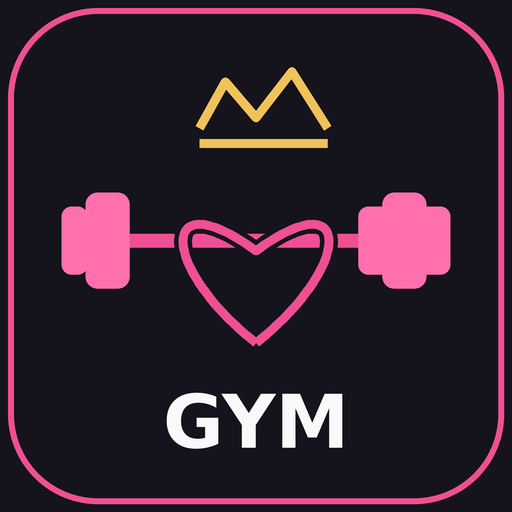
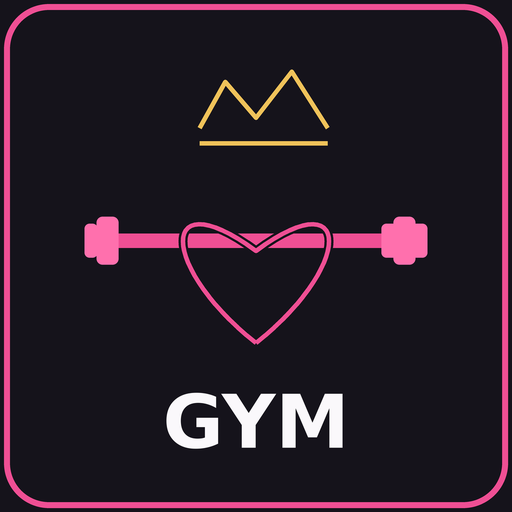
Atualização 5.1

diff --git a/index.html b/index.html
@@ -1,8 +1,13 @@
 <!doctype html><html lang="pt-BR"><head>
 <meta charset="utf-8"><meta name="viewport" content="width=device-width,initial-scale=1,viewport-fit=cover">
-<meta name="theme-color" content="#15131b"><meta name="apple-mobile-web-app-capable" content="yes"><meta name="apple-mobile-web-app-status-bar-style" content="black-translucent"><meta name="apple-mobile-web-app-title" content="GYM"><meta name="description" content="Treino adaptativo, recuperação muscular, cardio e relatórios.">
-<link rel="manifest" href="./manifest.webmanifest?v=5.0"><link rel="icon" type="image/png" href="./assets/favicon.png?v=5.0"><link rel="apple-touch-icon" href="./assets/apple-touch-icon.png?v=5.0">
-<link rel="stylesheet" href="styles.css?v=5.0"><title>GYM</title></head><body>
+<meta name="theme-color" content="#15131b"><meta name="mobile-web-app-capable" content="yes"><meta name="application-name" content="GYM"><meta name="apple-mobile-web-app-capable" content="yes"><meta name="apple-mobile-web-app-status-bar-style" content="black-translucent"><meta name="apple-mobile-web-app-title" content="GYM"><meta name="description" content="Treino adaptativo, recuperação muscular, cardio e relatórios.">
+<link rel="manifest" href="./manifest.webmanifest?v=5.1">
+<link rel="icon" type="image/x-icon" href="./assets/favicon.ico?v=5.1">
+<link rel="icon" type="image/png" sizes="192x192" href="./assets/icon-192.png?v=5.1">
+<link rel="icon" type="image/png" sizes="512x512" href="./assets/icon-512.png?v=5.1">
+<link rel="shortcut icon" href="./assets/icon-192.png?v=5.1">
+<link rel="apple-touch-icon" sizes="180x180" href="./assets/apple-touch-icon.png?v=5.1">
+<link rel="stylesheet" href="styles.css?v=5.1"><title>GYM</title></head><body>
 <svg class="svg-sprite" aria-hidden="true"><defs>
 <symbol id="i-home" viewBox="0 0 24 24"><path d="M3 11 12 3l9 8v9a1 1 0 0 1-1 1h-5v-7H9v7H4a1 1 0 0 1-1-1z"/></symbol>
 <symbol id="i-workout" viewBox="0 0 24 24"><path d="M6 8v8M3 10v4M18 8v8M21 10v4M6 12h12"/></symbol>
@@ -17,4 +22,4 @@
 <symbol id="i-plus" viewBox="0 0 24 24"><path d="M12 5v14M5 12h14"/></symbol><symbol id="i-logout" viewBox="0 0 24 24"><path d="M10 17l5-5-5-5M15 12H3M15 4h5a1 1 0 0 1 1 1v14a1 1 0 0 1-1 1h-5"/></symbol>
 </defs></svg>
 <div id="toast" class="toast"></div><div id="app"></div>
-<script src="https://cdn.jsdelivr.net/npm/@supabase/supabase-js@2"></script><script src="config.js"></script><script src="app.js?v=5.0"></script></body></html>
+<script src="https://cdn.jsdelivr.net/npm/@supabase/supabase-js@2"></script><script src="config.js"></script><script src="app.js?v=5.1"></script></body></html>

diff --git a/index.ts b/index.ts
@@ -1,4 +1,4 @@
 import "jsr:@supabase/functions-js/edge-runtime.d.ts";
 import OpenAI from "npm:openai";
 const cors={"Access-Control-Allow-Origin":"*","Access-Control-Allow-Headers":"authorization, x-client-info, apikey, content-type"};
-Deno.serve(async(req)=>{if(req.method==="OPTIONS")return new Response("ok",{headers:cors});try{const key=Deno.env.get("OPENAI_API_KEY");if(!key)throw new Error("OPENAI_API_KEY não configurada");const client=new OpenAI({apiKey:key});const body=await req.json();const response=await client.responses.create({model:"gpt-5-mini",input:[{role:"system",content:"Você é o Coach do EmyFit. Use apenas o exercício, perfil, histórico e regras fornecidos. Não diagnostique. Não invente substituições fora da biblioteca. Em dor >=5/10, sintomas cardiopulmonares, inchaço ou travamento, mande interromper e buscar avaliação. Responda em português, de forma curta e explique a razão."},{role:"user",content:JSON.stringify(body)}]});return new Response(JSON.stringify({answer:response.output_text}),{headers:{...cors,"Content-Type":"application/json"}})}catch(e){return new Response(JSON.stringify({error:e.message}),{status:400,headers:{...cors,"Content-Type":"application/json"}})}});
+Deno.serve(async(req)=>{if(req.method==="OPTIONS")return new Response("ok",{headers:cors});try{const key=Deno.env.get("OPENAI_API_KEY");if(!key)throw new Error("OPENAI_API_KEY não configurada");const client=new OpenAI({apiKey:key});const body=await req.json();const response=await client.responses.create({model:"gpt-5-mini",input:[{role:"system",content:"Você é o Coach do GYM. Use apenas o exercício, perfil, histórico e regras fornecidos. Não diagnostique. Não invente substituições fora da base de exercícios. Em dor >=5/10, sintomas cardiopulmonares, inchaço ou travamento, mande interromper e buscar avaliação. Responda em português, de forma curta e explique a razão."},{role:"user",content:JSON.stringify(body)}]});return new Response(JSON.stringify({answer:response.output_text}),{headers:{...cors,"Content-Type":"application/json"}})}catch(e){return new Response(JSON.stringify({error:e.message}),{status:400,headers:{...cors,"Content-Type":"application/json"}})}});

diff --git a/README.md b/README.md
@@ -1,4 +1,4 @@
-# GYM Premium v5.0
+# GYM Premium v5.1
 
 Aplicativo PWA de treino com:
 
@@ -30,3 +30,9 @@ Os demais exercícios ficam sem imagem até existir uma ilustração anatômica 
 Leia `ATUALIZAR_GYM_v5.txt`.
 
 O pacote não contém `config.js`. Mantenha no GitHub o arquivo já configurado com a URL e a chave publicável do Supabase.
+
+
+## Correção v5.1
+- pacote completo de ícones PWA e maskable;
+- instrução de instalação alterada para evitar atalho simples com letra;
+- cardio Escada incluído com tempo, nível e andares/lances.
